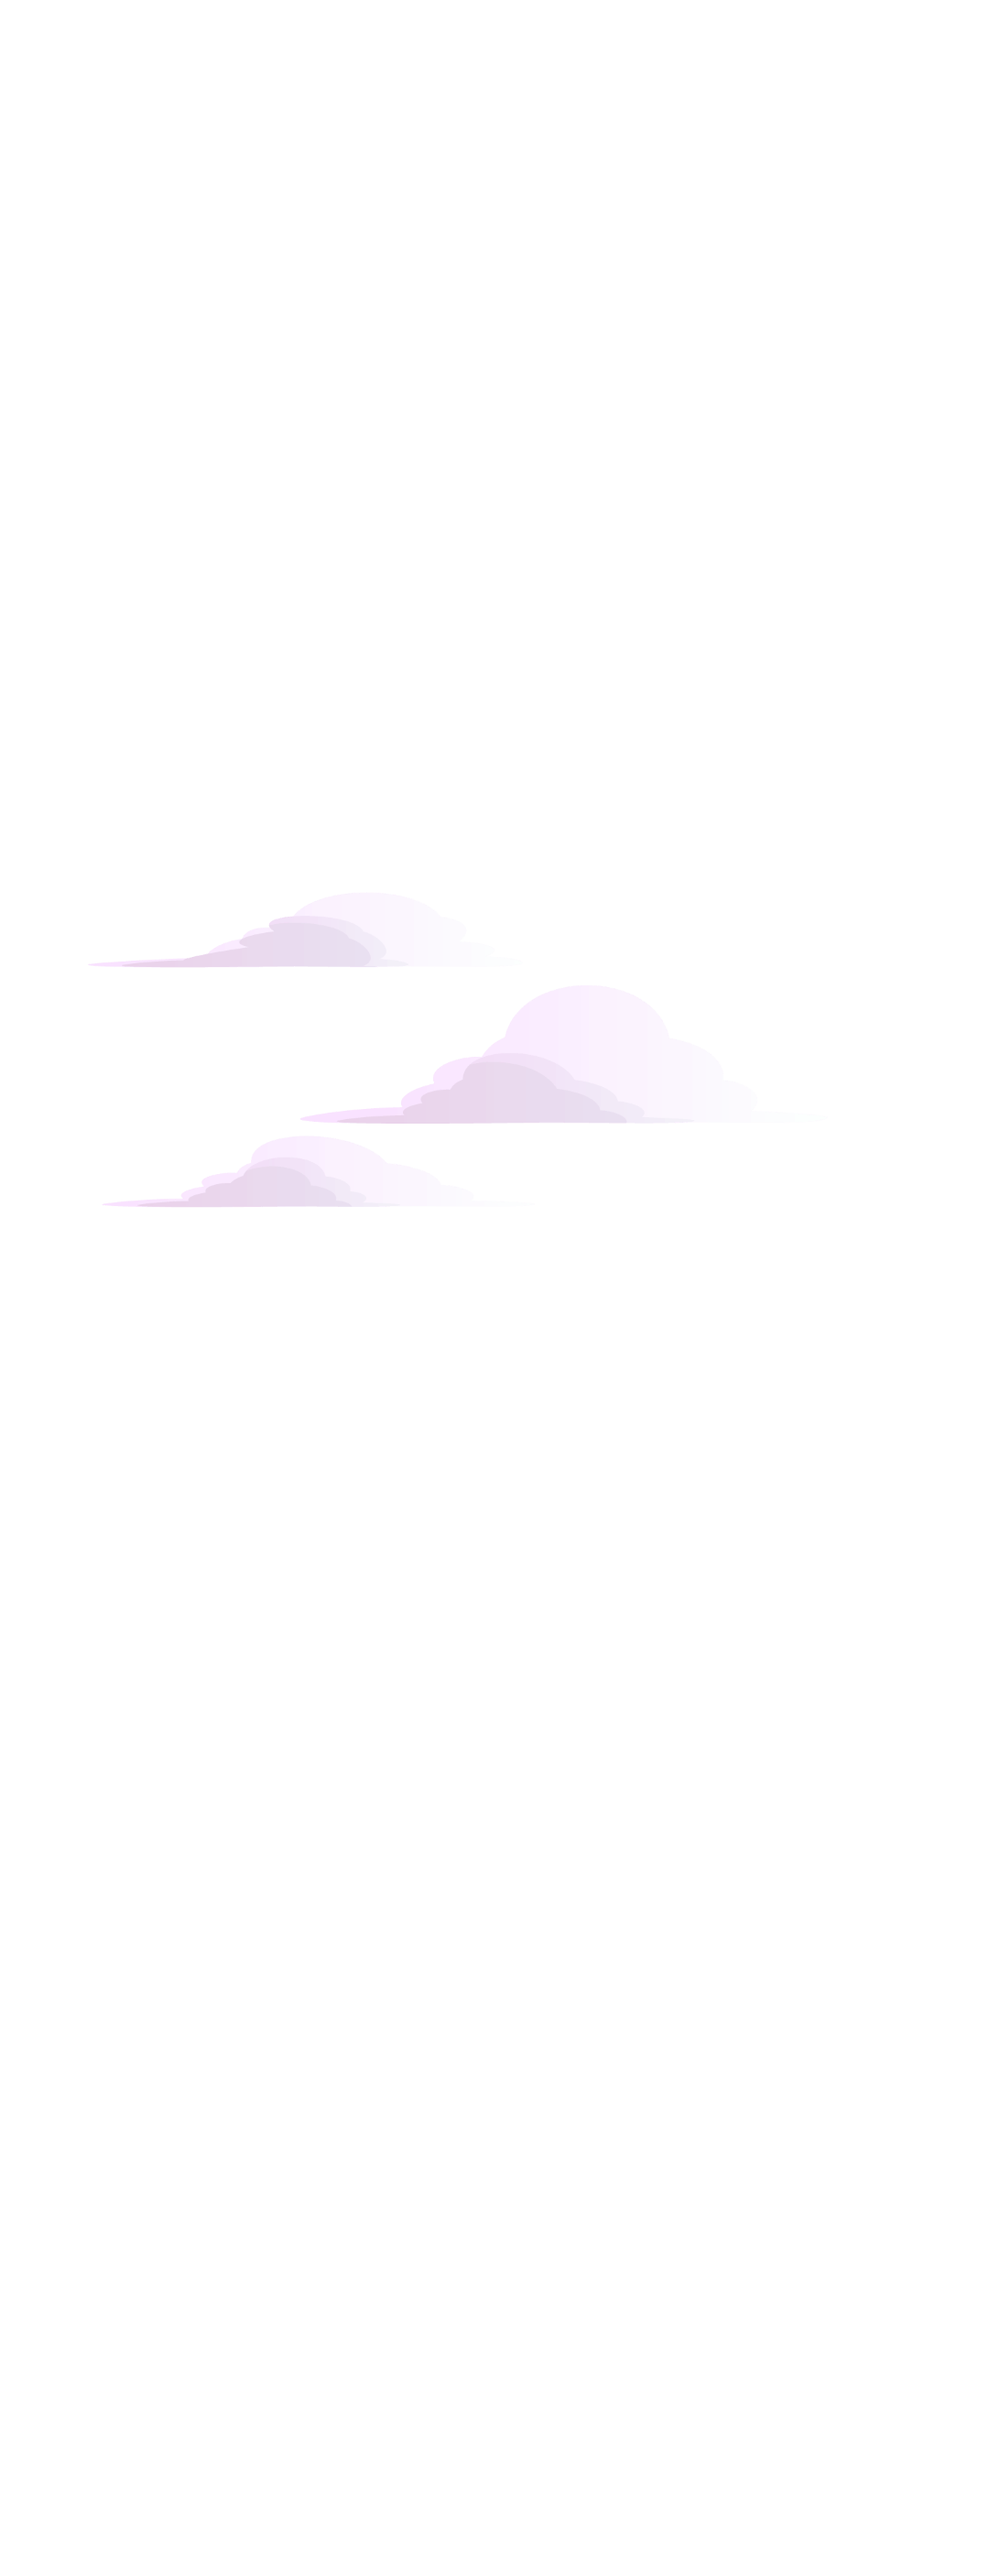
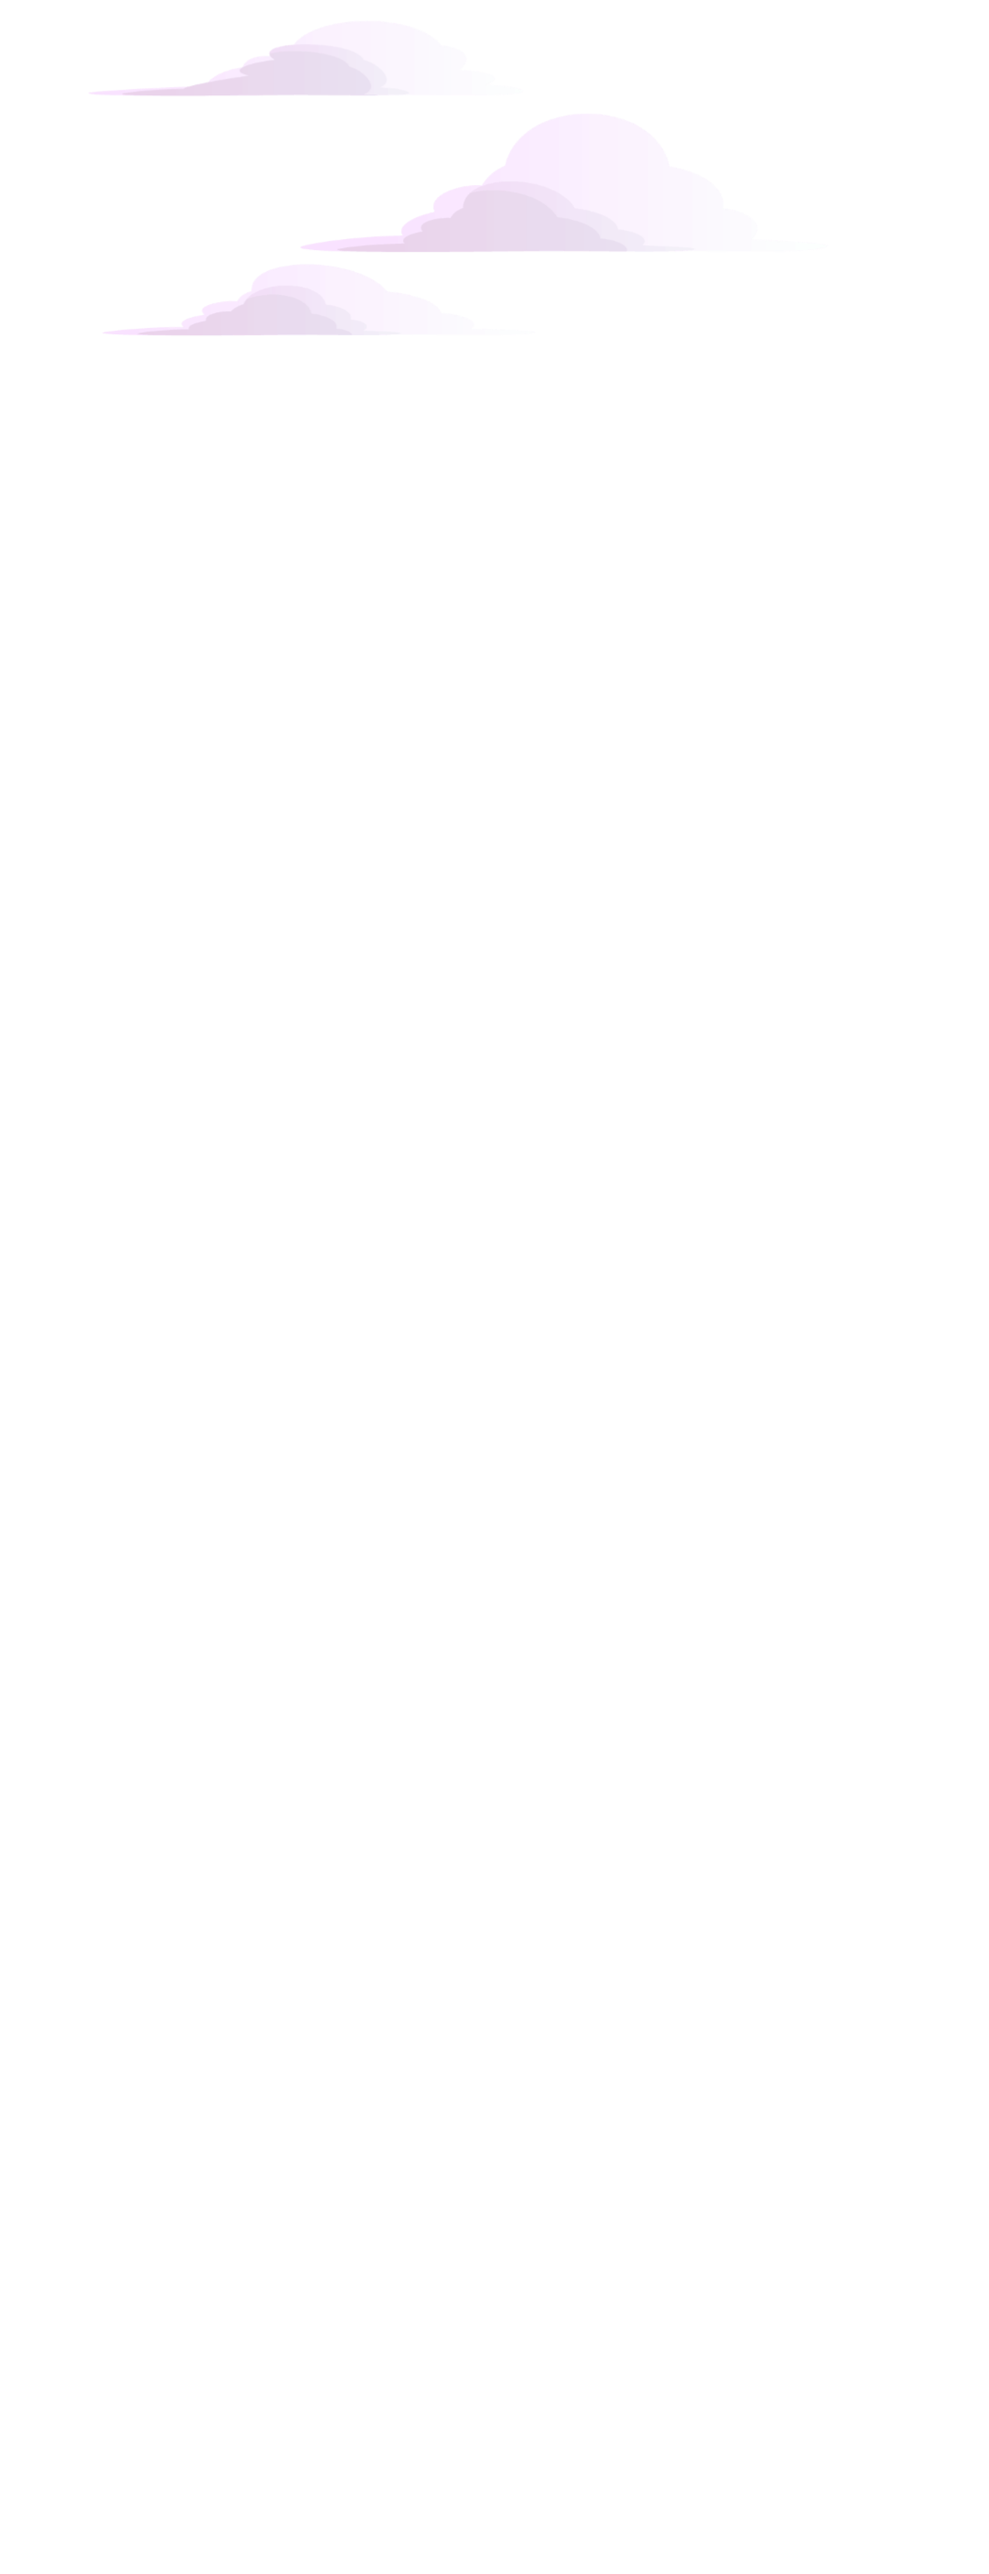
parallaxing bg

diff --git a/src/objects/gameManager/gameManager.ts b/src/objects/gameManager/gameManager.ts
@@ -3,6 +3,7 @@ import { CollisionManager } from "../collisionManager/collisionManager";
 import { EndlessBackground } from "../endlessBackground/endlessBackground";
 import { InputManager } from "../inputManager/inputManager";
 import { PadsManager } from "../padsManager/padsManager";
+import { ParallaxBackground } from "../parallaxBackground/parallaxBackground";
 import { IPlayerListener } from "../player/iPlayerListener";
 import { Player } from "../player/player";
 import { PlayerManager } from "../player/playerManager";
@@ -25,6 +26,7 @@ export class GameManager implements IScoreManagerListener, IPlayerListener
 
   private highestY: number = 0;
   private halfHeight: number = 0;
+  private parallaxBackground: ParallaxBackground;
   private endlessBackground: EndlessBackground;
   private inputManager: InputManager;
   private scoreManager: ScoreManager;
@@ -145,9 +147,16 @@ export class GameManager implements IScoreManagerListener, IPlayerListener
 
     // Setup the Managers.
 
+    this.parallaxBackground = new ParallaxBackground();
+    this.parallaxBackground.init(
+      scene,
+      gameConfiguration.enviroment.parallaxBackgroundLayers,
+      gameConfiguration.gameView.canvasHeight
+    );
+
     this.endlessBackground = new EndlessBackground(scene);
     this.endlessBackground.init(
-      gameConfiguration.endlessBackground,
+      gameConfiguration.enviroment.endlessBackground,
       gameConfiguration.gameView.canvasHeight
     );
 

diff --git a/src/configurations/gameConfiguration.ts b/src/configurations/gameConfiguration.ts
@@ -1,4 +1,4 @@
-import { EndlessBackgroundConfiguration } from "./endlessBackground/endlessBackgroundConfiguration";
+import { EnviromentConfiguration } from "./enviroment/enviromentConfiguration";
 import { GameViewConfiguration } from "./gameViewConfiguration/gameViewConfiguration";
 import { LoaderConfiguration } from "./loader/loaderConfiguration";
 import { PadsManagerConfiguration } from "./padsManager/padsManagerConfiguration";
@@ -23,9 +23,9 @@ export class GameConfiguration
   public loader: LoaderConfiguration;
 
   /**
-   * The configuration of the endless bakcground.
+   * The configuration of the game enviroment.
    */
-  public endlessBackground: EndlessBackgroundConfiguration;
+  public enviroment: EnviromentConfiguration;
 
   /**
    * The configuration of the pads manager.

diff --git a/src/objects/parallaxBackground/parallaxBackground.ts b/src/objects/parallaxBackground/parallaxBackground.ts
@@ -1,0 +1,25 @@
+import { BackgroundLayerConfiguration } from "../../configurations/enviroment/backgroundLayerConfiguration";
+
+export class ParallaxBackground
+{
+  private layers: Array<Phaser.GameObjects.Image>;
+
+  public init(
+    scene: Phaser.Scene,
+    layers: Array<BackgroundLayerConfiguration>,
+    canvasHeight: number
+  )
+  {
+    this.layers = new Array<Phaser.GameObjects.Image>();
+
+    layers.forEach(layerConfig =>
+    {
+      let layer = scene.add.image(0, 0, layerConfig.imageKey);
+      layer.setOrigin(0, 0);
+      layer.setPosition(0, canvasHeight - layer.height);
+      layer.setScrollFactor(layerConfig.depth);
+
+      this.layers.push(layer);
+    });
+  }
+}

diff --git a/src/configurations/enviroment/enviromentConfiguration.ts b/src/configurations/enviroment/enviromentConfiguration.ts
@@ -1,0 +1,11 @@
+import { BackgroundLayerConfiguration } from "./backgroundLayerConfiguration";
+import { EndlessBackgroundConfiguration } from "./endlessBackgroundConfiguration";
+
+export class EnviromentConfiguration
+{
+  public backgroundKey: string;
+
+  public parallaxBackgroundLayers: Array<BackgroundLayerConfiguration>; 
+  
+  public endlessBackground: EndlessBackgroundConfiguration;
+}

diff --git a/src/objects/endlessBackground/endlessBackground.ts b/src/objects/endlessBackground/endlessBackground.ts
@@ -1,4 +1,4 @@
-import { EndlessBackgroundConfiguration } from "../../configurations/endlessBackground/endlessBackgroundConfiguration";
+import { EndlessBackgroundConfiguration } from "../../configurations/enviroment/endlessBackgroundConfiguration";
 import { EndlessLoopVImages } from "./endlessLoopVImages";
 
 export class EndlessBackground extends Phaser.GameObjects.Group
